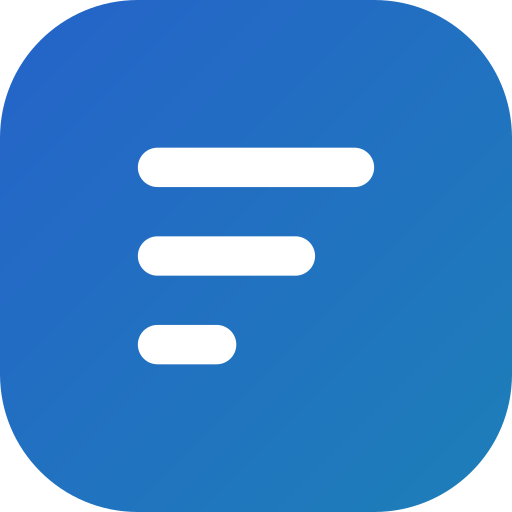
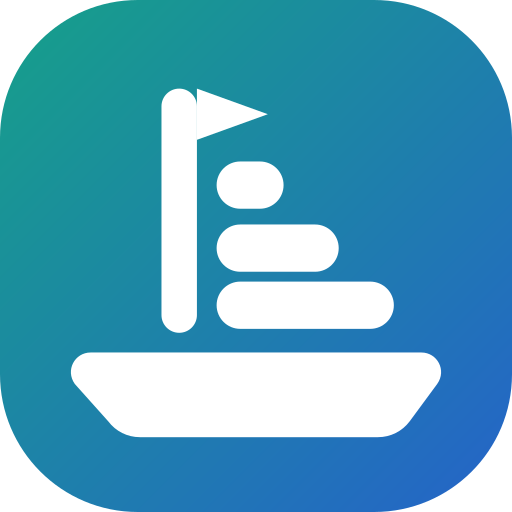
Give ShipLean its own mark: a sailboat with a backlog-row sail on a teal gradient
Replaces the Codex-like bars mark across the favicon, nav, footer, brand files,
org avatar and social card, and moves the brand gradient to teal so it no longer
matches Codex.

diff --git a/site/index.html b/site/index.html
@@ -26,20 +26,20 @@
   :root {
     --page-max: 1180px;
     --gutter: 24px;
-    --grad-a: #2563c9;
-    --grad-b: #1d7fb8;
+    --grad-a: #16a089;
+    --grad-b: #2563c9;
     --glow: color-mix(in srgb, var(--color-accent) 22%, transparent);
     --frame-shadow: 0 1px 0 rgb(255 255 255 / .6) inset, 0 30px 80px -30px rgb(16 24 40 / .35), 0 12px 30px -18px rgb(16 24 40 / .25);
     --grid-line: color-mix(in srgb, var(--color-border) 55%, transparent);
   }
   @media (prefers-color-scheme: dark) {
     :root:not([data-theme="light"]) {
-      --grad-a: #5cc8f0; --grad-b: #9db8ff;
+      --grad-a: #3dd6b5; --grad-b: #5cc8f0;
       --frame-shadow: 0 0 0 1px rgb(255 255 255 / .04) inset, 0 40px 100px -30px rgb(0 0 0 / .8), 0 0 80px -20px color-mix(in srgb, #5cc8f0 25%, transparent);
     }
   }
   :root[data-theme="dark"] {
-    --grad-a: #5cc8f0; --grad-b: #9db8ff;
+    --grad-a: #3dd6b5; --grad-b: #5cc8f0;
     --frame-shadow: 0 0 0 1px rgb(255 255 255 / .04) inset, 0 40px 100px -30px rgb(0 0 0 / .8), 0 0 80px -20px color-mix(in srgb, #5cc8f0 25%, transparent);
   }
 
@@ -78,16 +78,12 @@
   }
   .nav .wrap { display: flex; align-items: center; gap: 28px; height: 60px; }
   .brand { display: flex; align-items: center; gap: 10px; font-weight: 700; font-size: 18px; letter-spacing: -.01em; text-decoration: none; }
-  .mark {
-    width: 26px; height: 26px; border-radius: 7px; position: relative; flex: none;
-    background: linear-gradient(140deg, var(--grad-a), var(--grad-b));
-    box-shadow: 0 4px 14px -4px var(--glow);
-  }
-  .mark::before, .mark::after { content: ""; position: absolute; left: 7px; right: 7px; height: 2px; border-radius: 2px; background: rgb(255 255 255 / .9); }
-  .mark::before { top: 9px; }
-  .mark::after { top: 14px; right: 11px; }
-  :root[data-theme="dark"] .mark::before, :root[data-theme="dark"] .mark::after { background: #06192a; }
-  @media (prefers-color-scheme: dark) { :root:not([data-theme="light"]) .mark::before, :root:not([data-theme="light"]) .mark::after { background: #06192a; } }
+  /* ShipLean mark: a sailboat whose sail is three backlog rows */
+  .mark { width: 28px; height: 28px; flex: none; filter: drop-shadow(0 4px 10px var(--glow)); }
+  .mark-sm { width: 20px; height: 20px; filter: none; }
+  .mark { --mark-fg: #fff; }
+  :root[data-theme="dark"] .mark { --mark-fg: #06192a; }
+  @media (prefers-color-scheme: dark) { :root:not([data-theme="light"]) .mark { --mark-fg: #06192a; } }
   .nav-links { display: flex; gap: 22px; font-size: 14px; color: var(--color-muted); }
   .nav-links a { text-decoration: none; }
   .nav-links a:hover { color: var(--color-text); }
@@ -332,16 +328,6 @@
   @media (prefers-reduced-motion: reduce) {
     *, *::before, *::after { animation: none !important; transition: none !important; }
   }
-  /* ShipLean mark: three backlog rows, shortest last */
-  .mark::before { top: 7px; right: 7px; }
-  .mark::after { top: 12px; right: 10px; }
-  .mark i { position: absolute; left: 7px; width: 5px; top: 17px; height: 2px; border-radius: 2px; background: rgb(255 255 255 / .9); }
-  :root[data-theme="dark"] .mark i { background: #06192a; }
-  @media (prefers-color-scheme: dark) { :root:not([data-theme="light"]) .mark i { background: #06192a; } }
-  .brand .mark-sm { width: 20px; height: 20px; border-radius: 6px; }
-  .brand .mark-sm::before { left: 5px; top: 5px; right: 5px; height: 1.6px; }
-  .brand .mark-sm::after { left: 5px; top: 9px; right: 8px; height: 1.6px; }
-  .brand .mark-sm i { left: 5px; top: 13px; width: 4px; height: 1.6px; }
 
   /* Crops for the spotlights */
   .crop.plan img { transform: scale(1.25); transform-origin: 30% 100%; }
@@ -355,6 +341,8 @@
 <!-- SVG icon sprite -->
 <svg width="0" height="0" style="position:absolute" aria-hidden="true">
   <defs>
+    <linearGradient id="mark-g" x1="0" y1="0" x2="1" y2="1"><stop offset="0" style="stop-color:var(--grad-a)"/><stop offset="1" style="stop-color:var(--grad-b)"/></linearGradient>
+    <symbol id="i-mark" viewBox="0 0 26 26"><rect width="26" height="26" rx="7" fill="url(#mark-g)"/><g style="fill:var(--mark-fg)"><rect x="8.2" y="4.5" width="1.8" height="12.4" rx=".9"/><path d="M10 4.5 13.6 5.8 10 7.1z"/><rect x="11" y="8.2" width="3.4" height="2.4" rx="1.2"/><rect x="11" y="11.4" width="6.2" height="2.4" rx="1.2"/><rect x="11" y="14.3" width="9" height="2.4" rx="1.2"/><path d="M4.6 17.9h16.8c.8 0 1.3.9.8 1.6l-1.4 1.9a2 2 0 0 1-1.6.8H7.1a2 2 0 0 1-1.6-.8l-1.7-1.9c-.5-.7 0-1.6.8-1.6Z"/></g></symbol>
     <symbol id="i-gh" viewBox="0 0 24 24"><path fill="currentColor" d="M12 .5a11.5 11.5 0 0 0-3.64 22.41c.58.1.79-.25.79-.56v-2c-3.2.7-3.88-1.37-3.88-1.37-.53-1.33-1.28-1.69-1.28-1.69-1.05-.71.08-.7.08-.7 1.16.08 1.77 1.19 1.77 1.19 1.03 1.77 2.7 1.26 3.36.96.1-.75.4-1.26.73-1.55-2.55-.29-5.24-1.28-5.24-5.68 0-1.26.45-2.28 1.19-3.08-.12-.29-.52-1.46.11-3.05 0 0 .97-.31 3.17 1.18a11 11 0 0 1 5.77 0c2.2-1.49 3.17-1.18 3.17-1.18.63 1.59.23 2.76.11 3.05.74.8 1.19 1.82 1.19 3.08 0 4.41-2.69 5.38-5.25 5.67.41.36.78 1.06.78 2.14v3.17c0 .31.21.67.8.56A11.5 11.5 0 0 0 12 .5Z"/></symbol>
     <symbol id="i-arrow" viewBox="0 0 24 24"><path fill="none" stroke="currentColor" stroke-width="2" stroke-linecap="round" stroke-linejoin="round" d="M12 5v14m-6-6 6 6 6-6"/></symbol>
     <symbol id="i-right" viewBox="0 0 24 24"><path fill="none" stroke="currentColor" stroke-width="2" stroke-linecap="round" stroke-linejoin="round" d="M5 12h14m-6-6 6 6-6 6"/></symbol>
@@ -378,7 +366,7 @@
 
 <header class="nav">
   <div class="wrap">
-    <a class="brand" href="#top"><span class="mark" aria-hidden="true"><i></i></span>ShipLean</a>
+    <a class="brand" href="#top"><svg class="mark" viewBox="0 0 26 26" aria-hidden="true"><use href="#i-mark"/></svg>ShipLean</a>
     <nav class="nav-links">
       <a href="#why">Why ShipLean</a>
       <a href="#tour">Tour</a>
@@ -713,7 +701,7 @@
 
 <footer>
   <div class="wrap">
-    <a class="brand" href="#top" style="font-size:15px"><span class="mark mark-sm" aria-hidden="true"><i></i></span>ShipLean</a>
+    <a class="brand" href="#top" style="font-size:15px"><svg class="mark mark-sm" viewBox="0 0 26 26" aria-hidden="true"><use href="#i-mark"/></svg>ShipLean</a>
     <span>shiplean.app</span>
     <div class="nav-spacer"></div>
     <a href="https://github.com/shiplean">GitHub</a>

diff --git a/design/social/og-card.html b/design/social/og-card.html
@@ -22,7 +22,7 @@
   }
   body::after {
     content: ""; position: absolute; z-index: -1; right: -200px; bottom: -260px; width: 900px; height: 700px;
-    background: radial-gradient(closest-side, color-mix(in srgb, #5cc8f0 30%, transparent), transparent);
+    background: radial-gradient(closest-side, color-mix(in srgb, #3dd6b5 26%, transparent), transparent);
   }
   .copy { position: absolute; left: 72px; top: 80px; width: 580px; }
   .brand { display: flex; align-items: center; gap: 12px; font-size: 26px; font-weight: 700; }
@@ -32,7 +32,7 @@
     letter-spacing: .05em; text-transform: uppercase; background: var(--color-accent-soft); color: var(--color-accent);
   }
   h1 { margin: 20px 0 0; font-size: 64px; line-height: 1.04; letter-spacing: -.035em; font-weight: 700; }
-  .grad { background: linear-gradient(100deg, #5cc8f0, #9db8ff); -webkit-background-clip: text; background-clip: text; color: transparent; }
+  .grad { background: linear-gradient(100deg, #3dd6b5, #5cc8f0); -webkit-background-clip: text; background-clip: text; color: transparent; }
   p { margin: 22px 0 0; font-size: 22px; line-height: 1.45; color: var(--color-muted); }
   .shot {
     position: absolute; left: 640px; top: 110px; width: 760px; border-radius: 14px; overflow: hidden;

diff --git a/design/README.md b/design/README.md
@@ -1,13 +1,13 @@
 # ShipLean design assets
 
-Reference material for anyone making something that should look like ShipLean: the website, a social post, a slide or a new screen. ShipLean shares its house style with Codex: the same palette, type and density.
+Reference material for anyone making something that should look like ShipLean: the website, a social post, a slide or a new screen. ShipLean shares its house style with Codex (the same palette, type and density) but has its own mark and brand gradient, so the two never get mixed up.
 
 ## What's here
 
 | Path | What it is |
 |---|---|
-| `brand/shiplean-mark-light.svg` | The mark on light backgrounds: blue gradient square with three backlog rows, shortest last. |
-| `brand/shiplean-mark-dark.svg` | The mark on dark backgrounds: cyan gradient square, navy rows. |
+| `brand/shiplean-mark-light.svg` | The mark on light backgrounds: teal-to-blue gradient square with a white sailboat: a mast with a pennant, a sail made of three backlog rows, and a hull. |
+| `brand/shiplean-mark-dark.svg` | The mark on dark backgrounds: mint-to-cyan gradient square, navy boat. |
 | `brand/shiplean-logo-on-light.svg`, `brand/shiplean-logo-on-dark.svg` | The mark with the **ShipLean** wordmark. The wordmark is live SVG text set in Inter 700, so it needs Inter installed; convert it to outlines before sending it to print. |
 | `brand/shiplean-avatar-mark.png` | 512×512 PNG of the light mark, for the GitHub org avatar. |
 | `brand/favicon.svg` | One file that switches between the light and dark mark with the visitor's theme. |
@@ -31,7 +31,7 @@ Reference material for anyone making something that should look like ShipLean: t
 | `--color-warn` | `#b7701b` | `#f4cf72` | Resolved, warnings |
 | `--color-danger` | `#c2353b` | `#f08a8f` | Over capacity, errors |
 
-The landing page adds one brand gradient for the mark and highlighted headline words: `#2563c9 → #1d7fb8` in light and `#5cc8f0 → #9db8ff` in dark.
+The landing page adds one brand gradient for the mark and highlighted headline words: `#16a089 → #2563c9` (teal to blue) in light and `#3dd6b5 → #5cc8f0` (mint to cyan) in dark. Codex uses blue to sky blue, so keep ShipLean on the teal end.
 
 ## Type
 
